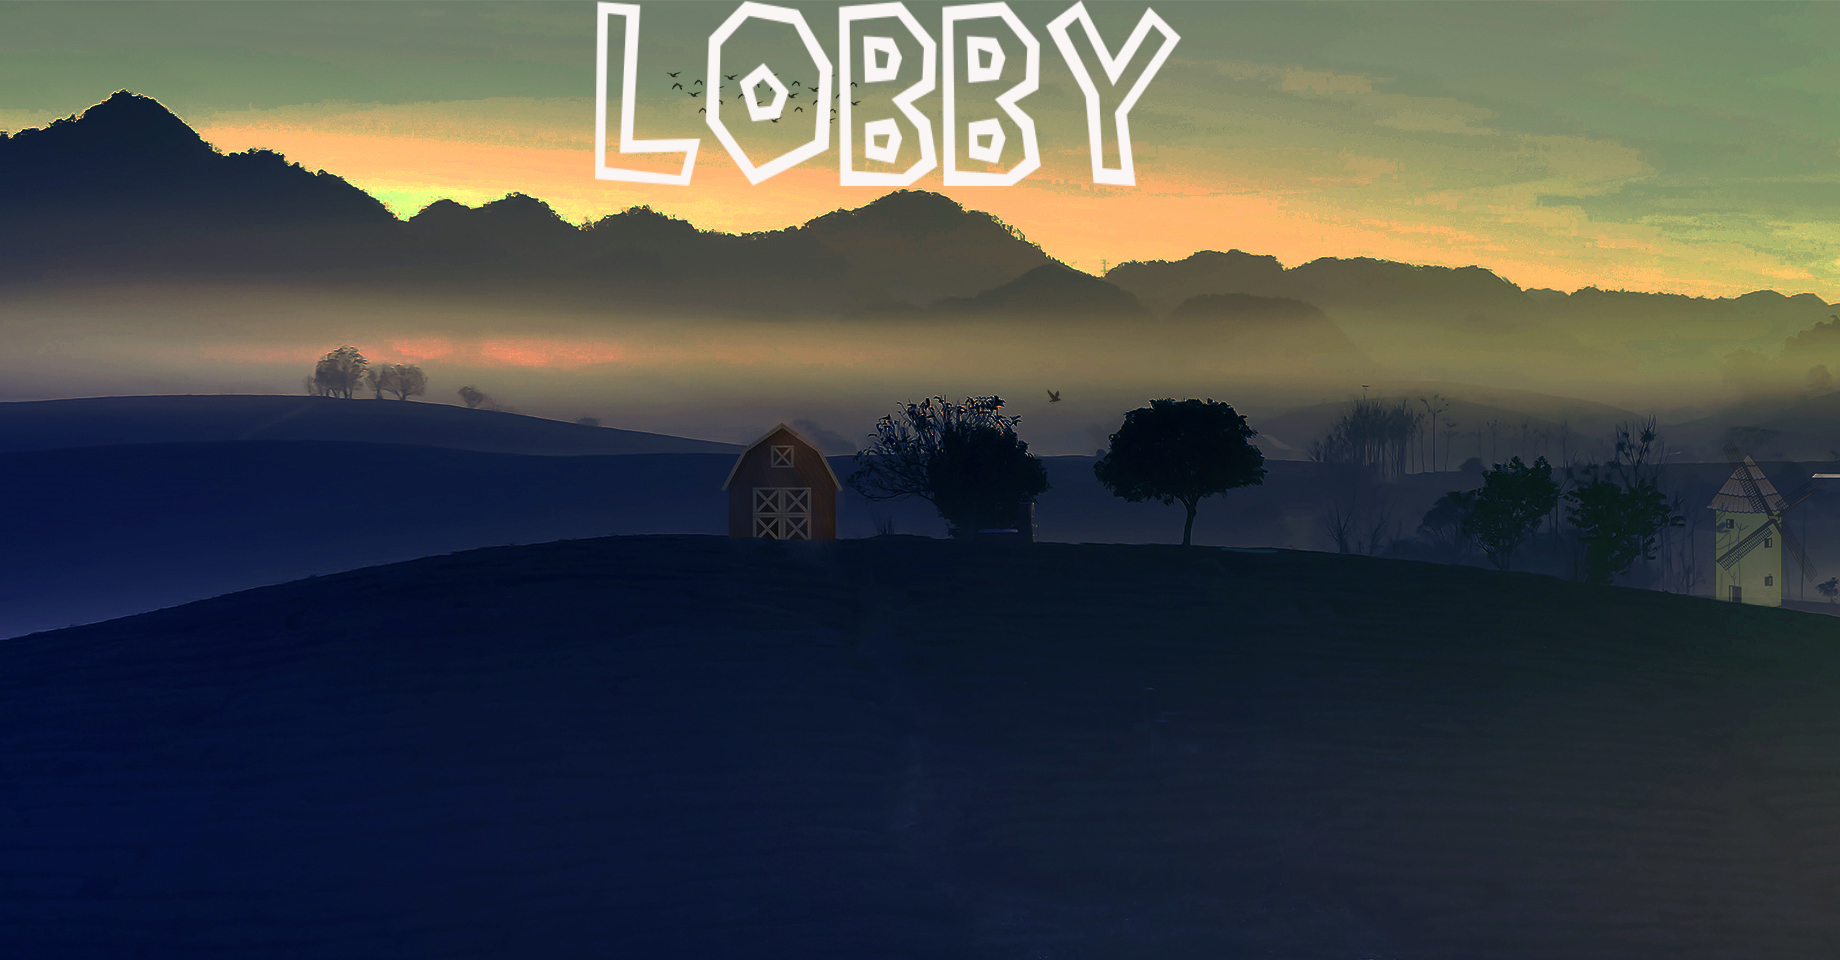
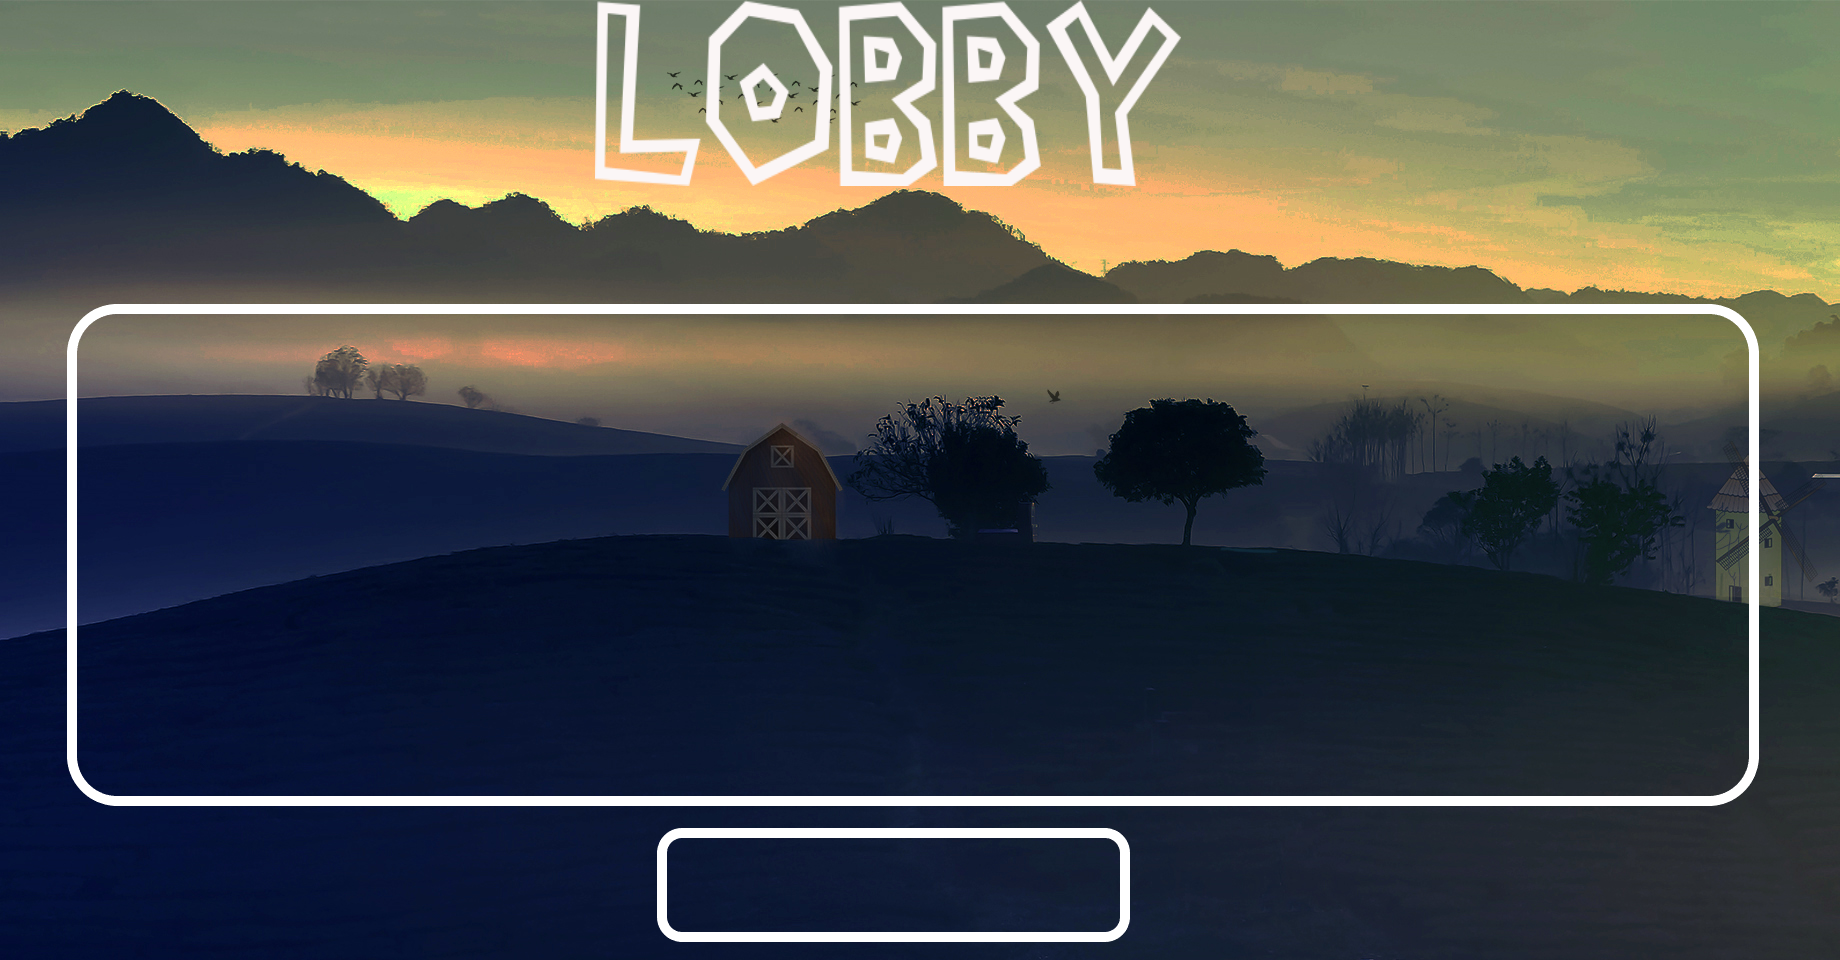
update LobbyScreen.java

Changed region(s): [[0.031, 0.3125, 0.9603, 1.0]]

diff --git a/core/src/uk/ac/aston/teamproj/game/screens/LobbyScreen.java b/core/src/uk/ac/aston/teamproj/game/screens/LobbyScreen.java
@@ -1,11 +1,15 @@
 package uk.ac.aston.teamproj.game.screens;
 
+import java.util.ArrayList;
+
 import com.badlogic.gdx.Gdx;
 import com.badlogic.gdx.Screen;
 import com.badlogic.gdx.audio.Sound;
+import com.badlogic.gdx.graphics.Color;
 import com.badlogic.gdx.graphics.GL20;
 import com.badlogic.gdx.graphics.OrthographicCamera;
 import com.badlogic.gdx.graphics.Texture;
+import com.badlogic.gdx.graphics.g2d.BitmapFont;
 import com.badlogic.gdx.graphics.g2d.TextureAtlas;
 import com.badlogic.gdx.graphics.g2d.TextureRegion;
 import com.badlogic.gdx.scenes.scene2d.InputEvent;
@@ -13,6 +17,7 @@ import com.badlogic.gdx.scenes.scene2d.InputListener;
 import com.badlogic.gdx.scenes.scene2d.Stage;
 import com.badlogic.gdx.scenes.scene2d.ui.ImageButton;
 import com.badlogic.gdx.scenes.scene2d.ui.ImageButton.ImageButtonStyle;
+import com.badlogic.gdx.scenes.scene2d.ui.Label;
 import com.badlogic.gdx.scenes.scene2d.ui.Skin;
 import com.badlogic.gdx.scenes.scene2d.ui.Table;
 import com.badlogic.gdx.scenes.scene2d.utils.TextureRegionDrawable;
@@ -20,6 +25,7 @@ import com.badlogic.gdx.utils.viewport.FitViewport;
 import com.badlogic.gdx.utils.viewport.Viewport;
 import uk.ac.aston.teamproj.game.MainGame;
 import uk.ac.aston.teamproj.game.net.MPClient;
+import uk.ac.aston.teamproj.game.net.Player;
 import uk.ac.aston.teamproj.game.net.packet.StartGame;
 
 /**
@@ -40,6 +46,8 @@ public class LobbyScreen implements Screen {
 	
 	public static boolean isGameAboutToStart = false;
 
+	public static ArrayList<Player> names = new ArrayList<Player>();
+	
 	public LobbyScreen(MainGame game) {
 		this.game = game;
 		viewport = new FitViewport(MainGame.V_WIDTH / 6, MainGame.V_HEIGHT / 6, new OrthographicCamera());
@@ -47,11 +55,36 @@ public class LobbyScreen implements Screen {
 
 		buttonsAtlas = new TextureAtlas("buttons/buttons.pack");
 		skin = new Skin(buttonsAtlas);
-		buttons = new ImageButton[3];
+		buttons = new ImageButton[1];
+		
+		
+		
+		
 
-		initializeButtons();
-		populateTable();
+
 	}
+	
+	private String getToken() {
+		return MPClient.token;
+	}
+	
+	private int getTotal() {
+		return MPClient.totalPlayers;
+	}
+	
+	private String numPlayers() {
+		return String.valueOf(getTotal());
+	}
+	
+	private String getPlayers() {
+		String name = null;
+		for(int i = 0; i < names.size(); i++) {
+		name = names.get(i).getName();
+		}
+		return name;
+	}
+	
+	
 
 	private void initializeButtons() {
 		ImageButtonStyle style;
@@ -75,7 +108,7 @@ public class LobbyScreen implements Screen {
 				MPClient.client.sendTCP(packet);
 				return true;
 			}
-		});
+			});
 		
 		buttons[0] = playbtn;
 
@@ -85,19 +118,44 @@ public class LobbyScreen implements Screen {
 		Table table = new Table();
 		table.top();
 		table.setFillParent(true);
+		
+        ;
 
+		//Display text for token, name, num players 
+		Label.LabelStyle font = new Label.LabelStyle(new BitmapFont(), Color.WHITE);
+		Label showToken = new Label (getToken(), font);
+		table.add(showToken);
+		table.row().expandY();
+//		Label showName0 = new Label (names.get(0), font);
+//		table.add(showName0);
+//		table.row().expandY();
+//		Label showName1 = new Label (names.get(1), font);
+//		table.add(showName1);
+//		table.row();
+//		Label showName2 = new Label (names.get(2), font);
+//		table.add(showName2);
+//		table.row();
+//		Label showName3 = new Label (names.get(3), font);
+//		table.add(showName3);
+//		table.row();
+		Label showNumplayers = new Label (numPlayers(), font);
+		table.add(showNumplayers);
+		table.row().expandY();
+		
+		
+		
 		// draw the background
 		Texture background = new Texture("buttons/lobbyBck.png");
 		table.background(new TextureRegionDrawable(new TextureRegion(background)));
 
 		// draw all buttons
 		ImageButton singleBtn = buttons[0];
-		table.add(singleBtn).height(22f).width(150).pad(4).padLeft(10).padTop(170);
-		table.row();
+		table.add(singleBtn).height(22f).width(100).pad(4).padLeft(265).padTop(125);
+		table.row().expandY();
 		for (int i = 1; i < buttons.length; i++) {
 			ImageButton button = buttons[i];
 			table.add(button).height(22f).width(120).pad(4).padLeft(200);
-			table.row();
+			table.row().expandY();
 		}
 
 		stage.addActor(table);
@@ -111,6 +169,16 @@ public class LobbyScreen implements Screen {
 
 	@Override
 	public void render(float delta) {
+		
+		//ArrayList
+		System.out.println(getPlayers());
+		
+		
+		//Displaying content on screen
+		initializeButtons();
+		populateTable();
+		
+		
 		if (!isGameAboutToStart) {
 			Gdx.gl.glClearColor(0f, 0f, 0f, 1);
 			Gdx.gl.glClear(GL20.GL_COLOR_BUFFER_BIT);
@@ -122,6 +190,9 @@ public class LobbyScreen implements Screen {
 			isGameAboutToStart = false;	// reset for next time
 			game.setScreen(new LoadingScreen(game));
 		}
+		
+		
+		
 	}
 
 	@Override

diff --git a/core/src/uk/ac/aston/teamproj/game/net/MPClient.java b/core/src/uk/ac/aston/teamproj/game/net/MPClient.java
@@ -29,11 +29,20 @@ public class MPClient {
 	public MainGame game;
 	private String name;
 	private String mapPath;
+	
+	//LobbyScreen variables 
+	public static int totalPlayers;
+	public static String playerName;
+	public static String token;
+	public static String playerID;
+	public static ArrayList<String> n;
 
 	
 	public MPClient(String ip, String name, MainGame game) {
 		this.name = name;
 		this.game = game;
+		
+		n = new ArrayList<String>();
 		
 		client = new Client();
 		client.start();
@@ -65,6 +74,7 @@ public class MPClient {
 				if(object instanceof CreateGameSession) {
 					CreateGameSession packet = (CreateGameSession) object;
 					System.out.println("The lobby has been created. You can invite players with the following code: " + packet.token);
+					token = packet.token;
 				}
 				
 				if(object instanceof JoinGameSession) {
@@ -76,9 +86,13 @@ public class MPClient {
 				if(object instanceof SessionInfo) {
 					SessionInfo packet = (SessionInfo) object;
 					System.out.println("Total players: " + packet.playerIDs.size());
+					totalPlayers = packet.playerIDs.size();
 					System.out.print("Players: ");
 					for (int i = 0 ; i < packet.playerIDs.size(); i++) {
 						System.out.print("[" + packet.playerIDs.get(i) + " - " + packet.playerNames.get(i) +  "] ");
+						playerName = packet.playerNames.get(i);
+						playerID = packet.playerNames.get(i);
+						n.add(packet.playerNames.get(i));
 					}
 					System.out.println();
 					System.out.println("Map: " + packet.mapPath);
@@ -93,6 +107,7 @@ public class MPClient {
 					for (int i = 0; i < packet.playerIDs.size() && i < packet.playerNames.size(); i++) {
 						Player p = new Player(packet.playerIDs.get(i), packet.playerNames.get(i));
 						PlayScreen.players.add(p);
+						LobbyScreen.names.add(p);
 					}
 					
 					LobbyScreen.isGameAboutToStart = true;
